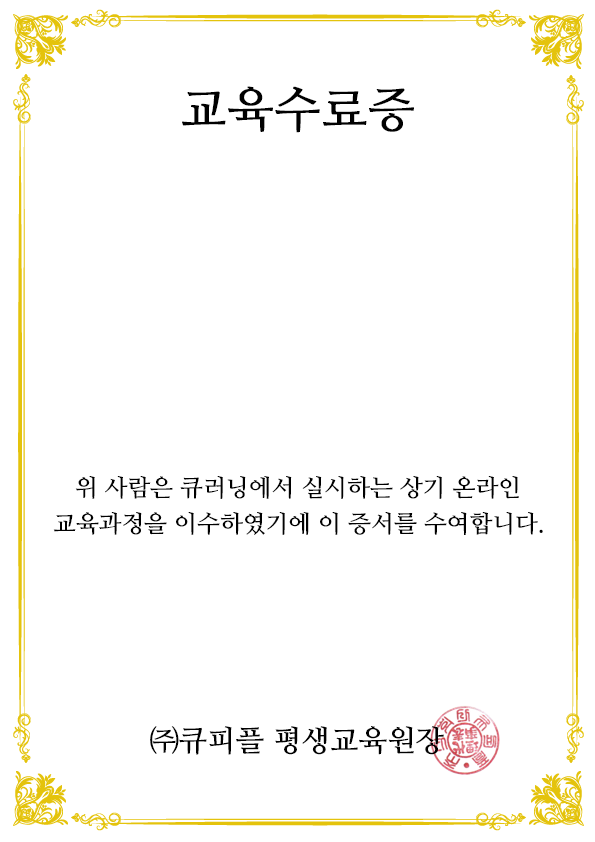
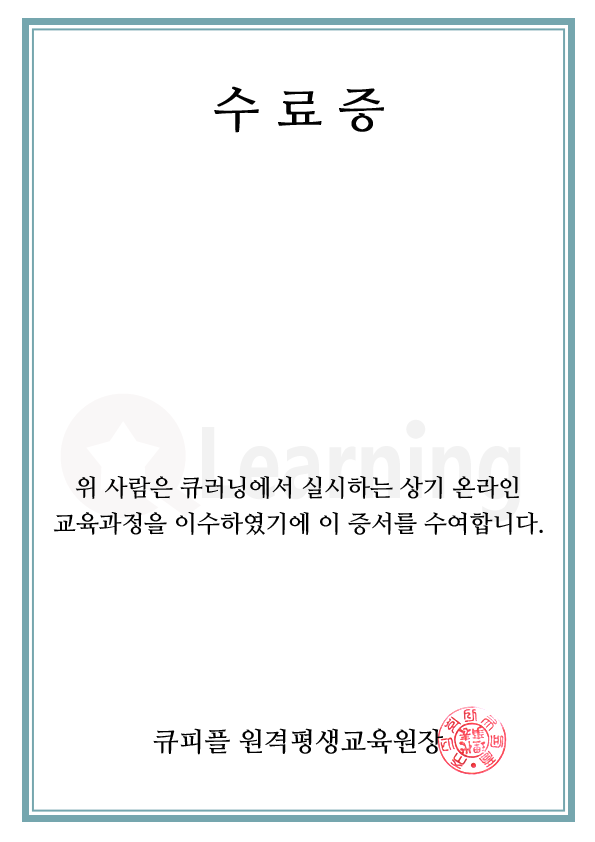
basket > 장바구니 텍스트 위치 오류 수정(크롬) classbg > 수료증 이미지 교체 classroom > 학습자 네비게이션 바 불안정한 현상 수정 main > 반응형 이미지 오류 수정 mypage_re > 회원탈퇴 버튼 위치수정 talk > 이미지 교체

diff --git a/src/main/webapp/resources/homepagePch/css/main.css b/src/main/webapp/resources/homepagePch/css/main.css
@@ -2349,12 +2349,19 @@ header {
 	.big_txt {
 		font-size: 27px;
 	}
+	.pp_lectures_wrap{
+		height:180px;
+	}
+	
 	.p_v1_txt {
 		background:url('../img/main/mobile_v1_txt.png') #FFF 0% 0% no-repeat; 
 		height:300px;
-		width:530px;
-		left:-10px;
+		width:100%;
+		left:0px;
 		top:30px;
+	}
+	.q_iframimg img{
+		width:100%;
 	}
 	.video_txt_bottom{
 		font-size:15px;

diff --git a/src/main/webapp/resources/homepageQch/css/main.css b/src/main/webapp/resources/homepageQch/css/main.css
@@ -2349,12 +2349,19 @@ header {
 	.big_txt {
 		font-size: 27px;
 	}
+	.pp_lectures_wrap{
+		height:180px;
+	}
+	
 	.p_v1_txt {
 		background:url('../img/main/mobile_v1_txt.png') #FFF 0% 0% no-repeat; 
 		height:300px;
-		width:530px;
-		left:-10px;
+		width:100%;
+		left:0px;
 		top:30px;
+	}
+	.q_iframimg img{
+		width:100%;
 	}
 	.video_txt_bottom{
 		font-size:15px;

diff --git a/src/main/webapp/resources/homepageQch/css/myclass/classroom.css b/src/main/webapp/resources/homepageQch/css/myclass/classroom.css
@@ -54,16 +54,14 @@ body{
 
 /*left*/
 .cl_left{
-	width:1000px;
+	width:300px;
 	position:fixed;
 	overflow:auto;
 	display:block;
-	left:calc(50% - 500px);
-	top:741px;
+	left:0;
+	top:55px;
 	bottom:0;
 	border-right:solid 1px #ccc;
-	border-left:solid 1px #ccc;
-    height:194px;
 }
 .cl_close{
 	position:fixed;

diff --git a/src/main/webapp/resources/homepageQch/css/classroom/basket.css b/src/main/webapp/resources/homepageQch/css/classroom/basket.css
@@ -665,7 +665,10 @@ header {
     text-align:center;
 }
 .process_search_result > div .process_result_con{
-    text-indent:13%;
+    /*text-indent:13%;*/
+        float:none;
+    display:inline-block;
+    width:25%;
 }
 .process_result_checkbox{
     float:left;

diff --git a/src/main/webapp/resources/homepagePch/css/classroom/basket.css b/src/main/webapp/resources/homepagePch/css/classroom/basket.css
@@ -665,7 +665,10 @@ header {
     text-align:center;
 }
 .process_search_result > div .process_result_con{
-    text-indent:13%;
+    /*text-indent:13%;*/
+    float:none;
+    display:inline-block;
+    width:25%;
 }
 .process_result_checkbox{
     float:left;

diff --git a/src/main/webapp/resources/homepagePch/css/mypage/mypage_re.css b/src/main/webapp/resources/homepagePch/css/mypage/mypage_re.css
@@ -1436,7 +1436,7 @@ header {
         margin: 10px auto 0;
     }
 	#sign_out{
-		top:836px;
+		top:-50px;
 		left:264px;
 		padding:5px;
 	}

diff --git a/src/main/webapp/resources/homepageQch/css/mypage/mypage_re.css b/src/main/webapp/resources/homepageQch/css/mypage/mypage_re.css
@@ -1436,7 +1436,7 @@ header {
         margin: 10px auto 0;
     }
 	#sign_out{
-		top:836px;
+		top:-50px;
 		left:264px;
 		padding:5px;
 	}
